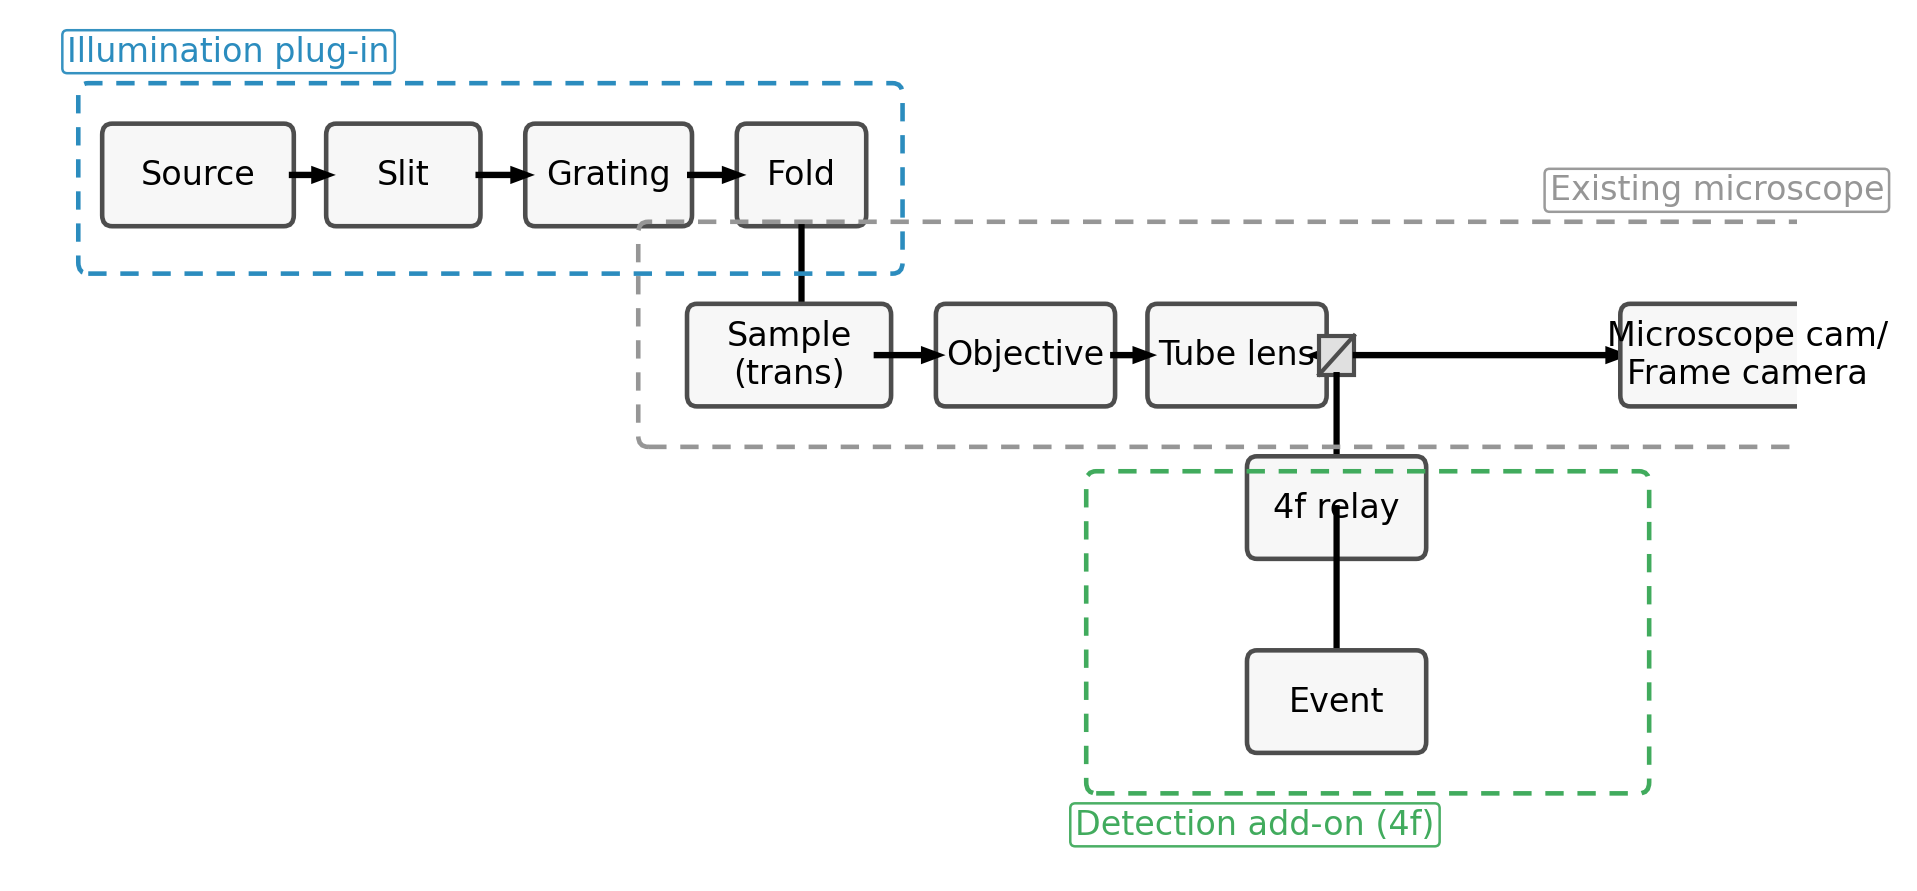
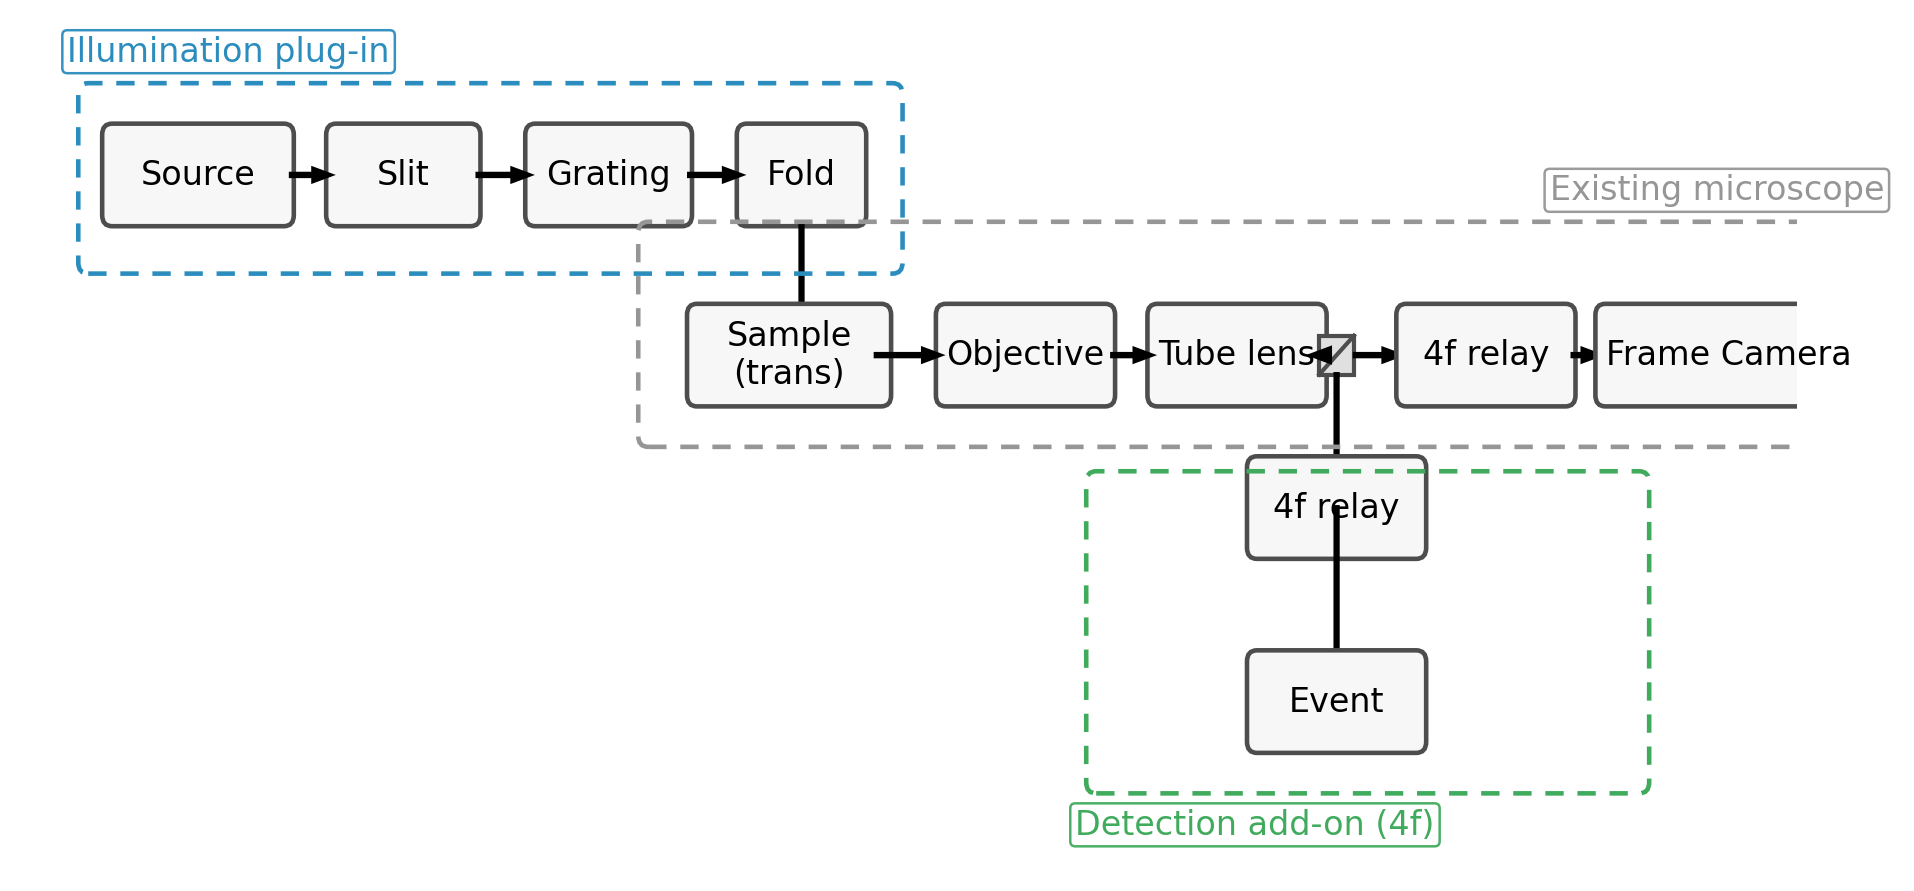
feat(figure1): add 4f relay on frame-camera branch; change label to ‘Frame Camera’; draw tube→reflector arrow above elements; keep vertical branch centered; rebuild PDF and LaTeX

diff --git a/publication_code/figure01_system_overview.py b/publication_code/figure01_system_overview.py
@@ -36,11 +36,22 @@ def add_block(ax, xy, text, width=1.6, height=0.7, fc="#f7f7f7", ec="#4d4d4d",
     return box
 
 
-def add_arrow(ax, x0, y0, x1, y1, lw=1.2, color="#000000"):
-    ax.add_patch(FancyArrow(x0, y0, x1 - x0, y1 - y0,
-                            width=0.01, length_includes_head=True,
-                            head_width=0.08, head_length=0.12,
-                            linewidth=lw, edgecolor=color, facecolor=color))
+def add_arrow(ax, x0, y0, x1, y1, lw=1.2, color="#000000", z=1.0):
+    arr = FancyArrow(
+        x0,
+        y0,
+        x1 - x0,
+        y1 - y0,
+        width=0.01,
+        length_includes_head=True,
+        head_width=0.08,
+        head_length=0.12,
+        linewidth=lw,
+        edgecolor=color,
+        facecolor=color,
+    )
+    arr.set_zorder(z)
+    ax.add_patch(arr)
 
 
 def add_plugin_box(ax, x, y, w, h, label, ec="#2b8cbe", label_pos: str = "inside-tl"):
@@ -122,15 +133,25 @@ def render(out_path: Path) -> None:
     add_arrow(ax, 7.3 + 1.4, 3.65, 9.0, 3.65)
 
     bs_cx, bs_cy = 10.5, 3.65
-    # Clear arrow between tube lens and reflector (beamsplitter)
-    add_arrow(ax, 9.0 + 1.4, 3.65, bs_cx - 0.18, 3.65, lw=1.4)
+    # Clear arrow between tube lens and reflector (beamsplitter), drawn above other elements
+    add_arrow(ax, 9.0 + 1.4, 3.65, bs_cx - 0.18, 3.65, lw=1.4, z=10)
     add_beamsplitter(ax, bs_cx, bs_cy, size=0.28)
 
-    # Branch 1: existing microscope camera (straight ahead)
-    add_arrow(ax, bs_cx + 0.15, 3.65, 12.8, 3.65)
-    add_block(ax, (12.8, 3.3), "Microscope cam/\nFrame camera", 2.0)
+    # Branch 1: top row to frame camera via an additional 4f relay
+    relay_r_w = 1.4
+    relay_r_x = 11.0
+    relay_r_y = 3.3
+    # Arrow from beamsplitter to right 4f relay (top branch)
+    add_arrow(ax, bs_cx + 0.15, 3.65, relay_r_x, 3.65)
+    relay_r = add_block(ax, (relay_r_x, relay_r_y), "4f relay", relay_r_w)
+    # Frame camera to the right
+    cam_w = 2.1
+    cam_x = relay_r_x + relay_r_w + 0.2
+    cam_y = 3.3
+    add_arrow(ax, relay_r_x + relay_r_w, 3.65, cam_x, 3.65)
+    add_block(ax, (cam_x, cam_y), "Frame Camera", cam_w)
 
-    # Branch 2: to 4f relay + event camera (downwards), centered on the vertical arrow
+    # Branch 2: to 4f relay + event (downwards), centered on the vertical arrow
     relay_w = 1.4
     relay_y = 2.2
     relay_x = bs_cx - relay_w / 2.0
